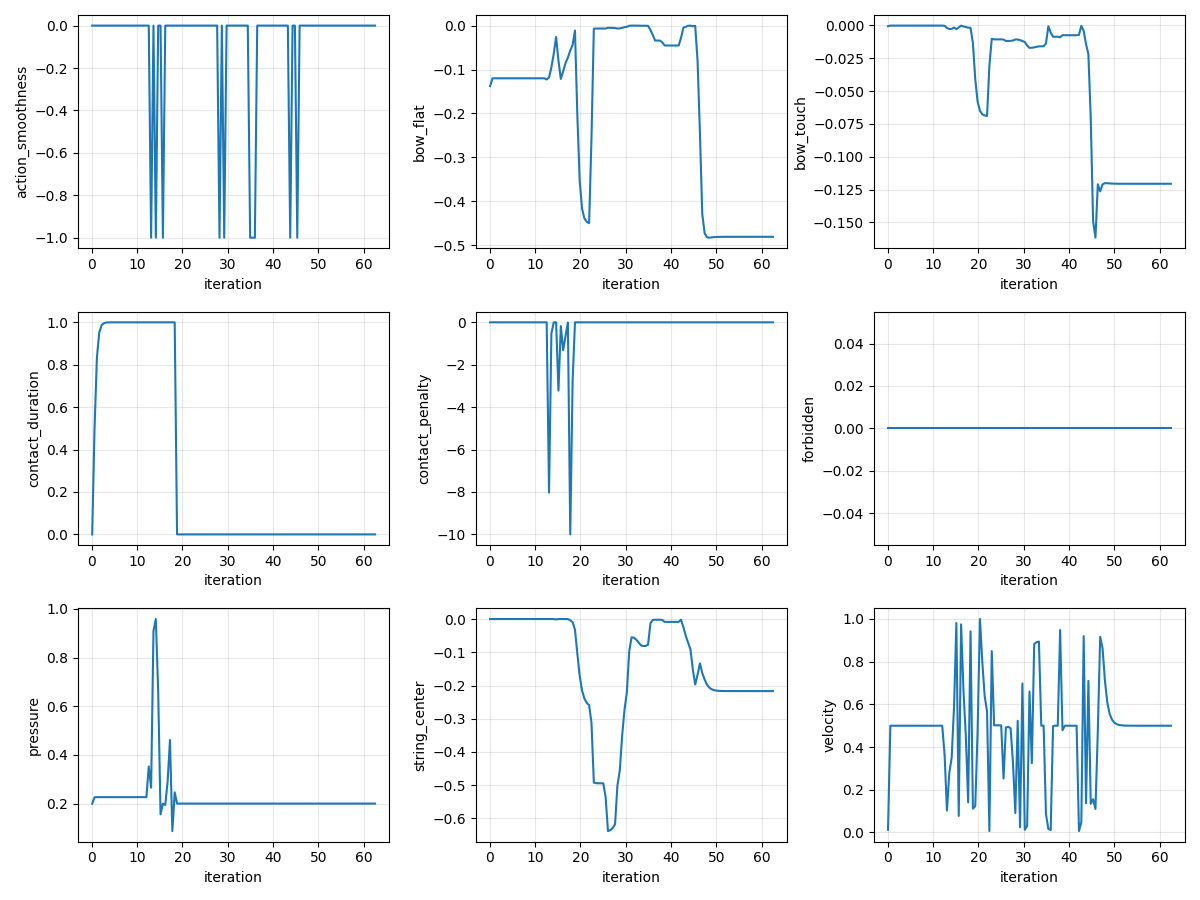
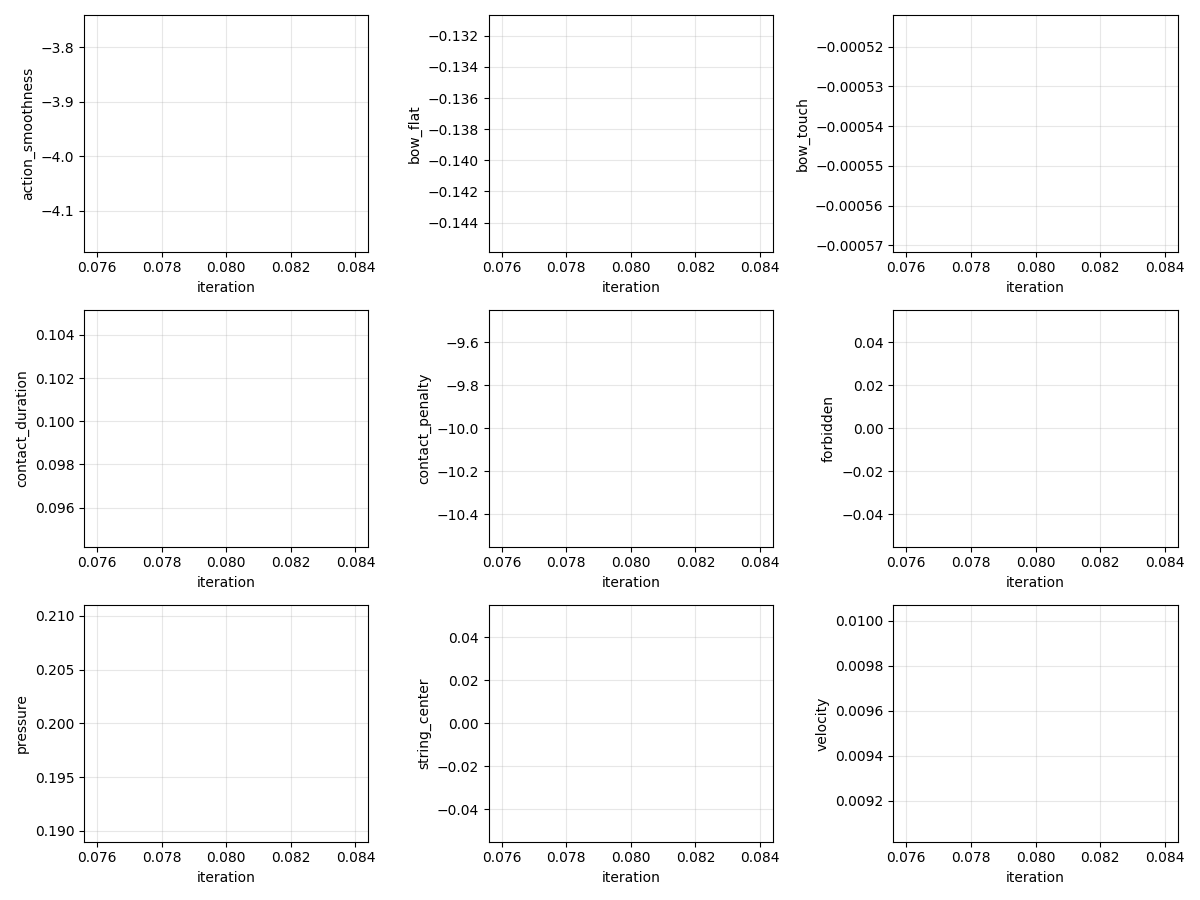
agent inference

diff --git a/inference.py b/inference.py
@@ -1,57 +1,93 @@
+import sys
+import mujoco
+import mujoco.viewer
+import time
+from mujoco import mjx
 import jax
+import jax.numpy as jp
+from envs.erhu_env import ErhuEnv
+from agent import PPOAgent
+
+from utils import print_jp_dict, MetricsLogger
 import orbax.checkpoint as ocp
 from pathlib import Path
-import mujoco
-import time
 
-from agent import PPOAgent
-from envs.erhu_env import ErhuEnv
 
 path = Path('checkpoints/model_latest').resolve()
 checkpointer = ocp.StandardCheckpointer()
 
-env = ErhuEnv()
-
-agent = PPOAgent(obs_size=env.observation_size, action_size=env.action_size)
-
-FRAME_SKIP = 40
-
-def main():
+    
+def main(xml_path):
     print(f"Using MuJoCo Version: {mujoco.__version__}")
 
+
+    env = ErhuEnv(episode_time_limit=1000)
+
+    agent = PPOAgent(obs_size=env.observation_size, action_size=env.action_size)
+
+    state = env.reset(jax.random.PRNGKey(0))
     model = env.mj_model
-    data = env.mj_data
+    data = mjx.get_data(model, state.pipeline_state)
 
     # Initialize network
     agent_state = agent.init(jax.random.PRNGKey(0))
     restored_params = checkpointer.restore(path, agent_state["params"])
     agent_state = {"params": restored_params, "opt_state": agent_state["opt_state"]}
 
+    log_print_interval = 0.5
+    next_tension_print = 0
+    metrics_logger = MetricsLogger(live=True)
 
-    mujoco.mj_forward(model, data)
-
-    step_count = 0
+    _step = jax.jit(env.step)
+    state = _step(state, jp.zeros(env.action_size))
+    # Fill the same MjData object the viewer was launched with, rather than
+    # rebinding `data` to a new object mujoco.viewer never sees.
+    mjx.get_data_into(data, model, state.pipeline_state)
 
     with mujoco.viewer.launch_passive(model, data) as viewer:
         viewer.sync()
+        print("Teleoperation loop running. Press ESC in viewer to exit.")
+        print("Drag the actuator sliders in the viewer's Control panel to command the arm.")
         start = time.time()
-        while viewer.is_running():
-            elapsed_real = time.time() - start
-            print(f"Sim time {data.time:.3f}, elapsed real time {elapsed_real:.3f}", end="\r")
-            
-            if data.time >= elapsed_real:
-                time.sleep(0.01)
-                continue
 
-            if step_count % FRAME_SKIP == 0:
-                obs = env._get_obs(data, info=None)
-                action, _ = agent.act(agent_state, obs, jax.random.PRNGKey(step_count))
-                data.ctrl[:] = action
-            
-            mujoco.mj_step(model, data)
+        try:
+            while viewer.is_running():
+                elapsed_real = time.time() - start
+                print(f"Sim time {data.time:.3f}, elapsed real time {elapsed_real:.3f}", end="\r")
 
-            step_count += 1
-            viewer.sync()
+                if data.time >= elapsed_real:
+                    time.sleep(0.01)
+                    continue
+                
+                action, _ = agent.act(
+                    agent_state, state.obs, jax.random.PRNGKey(0), deterministic=True
+                )
+                print(f"Action: {action}")
+
+                state = _step(state, action)
+                if state.done:
+                    print(f"\nEpisode terminated")
+                    metrics_logger.plot("metrics.png")
+                    metrics_logger.close()
+                    exit(0)
+                mjx.get_data_into(data, model, state.pipeline_state)
+
+                viewer.sync()
+
+                if data.time >= next_tension_print:
+                    next_tension_print = data.time + log_print_interval
+                    # print_jp_dict(state.metrics)
+                    metrics_logger.log(data.time, state.metrics["reward_terms"])
+
+        except KeyboardInterrupt:
+            print("\nKeyboard interrupt received. Exiting.")
+
+        metrics_logger.plot("metrics.png")
+        metrics_logger.close()
 
 if __name__ == "__main__":
-    main()
+    if len(sys.argv) != 2:
+        print("Usage: python mujoco_model.py path/to/erhu_model.xml")
+        sys.exit(1)
+
+    main(sys.argv[1])
